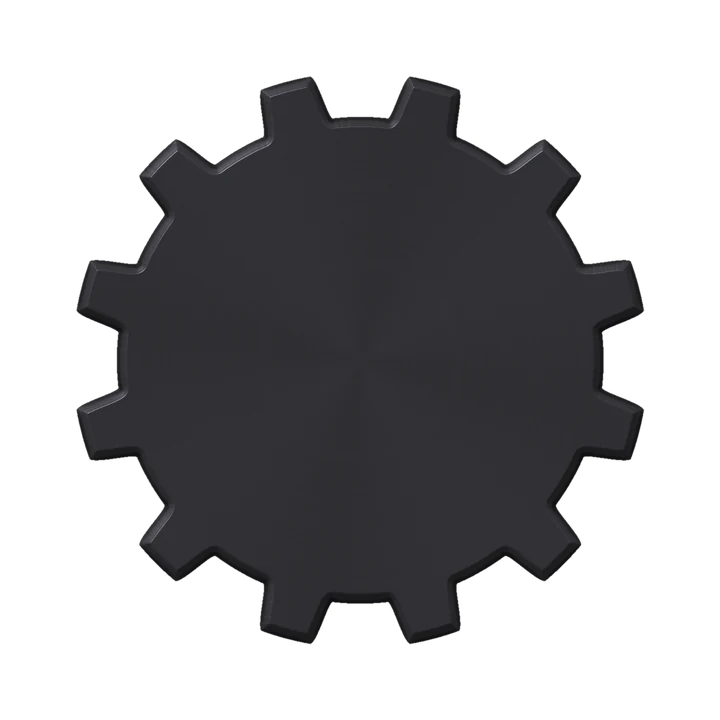
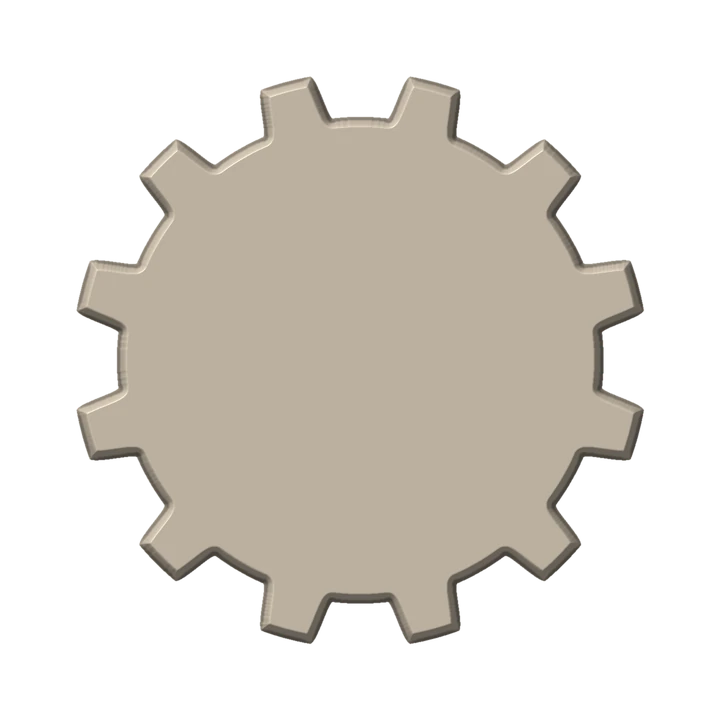
How we work: ivory ceramic gear with ports; red lines leave from the ports
The gear is now option C: ivory ceramic with a fine red ring the
weight of the red lines, a red channel from the ring to the edge, and
a ceramic port (a cable gland with a red sleeve) the lines leave from:
one at the bottom on phones and tablets, one each side on desktop. The
lines settle to solid red. Desktop wires are now drawn from the port
exits into each circle, from their positions; the gear is a little
smaller and the circles a little further out to make room.

Claude-Session: https://claude.ai/code/session_01PbAnrJaT2h2NzokuXUFqJZ

diff --git a/components/HowWeWork.jsx b/components/HowWeWork.jsx
@@ -31,32 +31,41 @@ const W = 1200;
 const H = 600;
 const R = 86; // node radius
 const NODES = [
-  [365, 110], [355, 300], [365, 490], // left, top to bottom
-  [835, 110], [845, 300], [835, 490], // right
+  [350, 110], [346, 300], [350, 490], // left, top to bottom
+  [850, 110], [854, 300], [850, 490], // right
 ];
 const TICK = 40; // the short rule between a node and its list
 const GAP = 14;
 
-// Gear to node: out of the gear's flank, into the node's inner side, with
-// how long the red takes to run each (the curves are about four times the
-// length of the straights).
-const WIRES = [
-  ['M506 226C466 222 505 110 451 110', 1.1],
-  ['M480 300H441', 0.3],
-  ['M506 374C466 378 505 490 451 490', 1.1],
-  ['M694 226C734 222 695 110 749 110', 1.1],
-  ['M720 300H759', 0.3],
-  ['M694 374C734 378 695 490 749 490', 1.1],
-];
-const GEAR_BOX = 350; // the gear images' square canvas, in diagram units
+// The gear images' square canvas, in diagram units. The gear's tip radius
+// is 40% of it, and its ports' exits sit 1.152 tip radii out to each side,
+// three of them 0.03 tip radii apart (tools/gear/build_gear.py).
+const GEAR_BOX = 320;
+const TIP = GEAR_BOX * 0.4;
+
+// From a port exit to each node: out of the port, then round into the node
+// on the line towards the exit. With how long the red takes to run it, at
+// a steady speed.
+const SPEED = 115; // diagram units a second
+const WIRES = NODES.map(([x, y], i) => {
+  const side = i < 3 ? -1 : 1;
+  const ex = 600 + side * 1.152 * TIP;
+  const ey = 300 + Math.sign(y - 300) * 0.03 * TIP;
+  const [ux, uy] = [ex - x, ey - y].map((v, _, [a, b]) => v / Math.hypot(a, b));
+  const [nx, ny] = [x + ux * R, y + uy * R];
+  if (y === 300) return [`M${ex} ${ey}H${nx}`, Math.abs(ex - nx) / SPEED];
+  const d = `M${ex} ${ey}C${ex + side * 22} ${ey} ${nx + ux * 44} ${ny + uy * 44} ${nx} ${ny}`;
+  return [d, Math.hypot(ex - nx, ey - ny) * 1.15 / SPEED];
+});
 
 // The gear: pre-rendered layers (tools/gear/build_gear.py), the words live
-// text over the dial. state is '', 'armed' (waiting: back plate out of step,
-// ring dark) or 'in' (running the sequence).
-const LAYERS = ['shadow', 'back', 'front', 'ring', 'glow'];
-const LAYER_CLASS = { back: 'plateBack', front: 'plateFront', ring: 'ring', glow: 'glow' };
+// text over the dial. layout is where its ports are: 'sides' (desktop) or
+// 'bottom' (phones and tablets). state is '', 'armed' (waiting: back plate
+// out of step, ring dark) or 'in' (running the sequence).
+const LAYERS = ['shadow-*', 'port-*', 'back', 'front-*', 'ring-*', 'glow'];
+const LAYER_CLASS = { back: 'plateBack', 'front-*': 'plateFront', 'ring-*': 'ring', glow: 'glow' };
 
-function Gear({ hub, state = '' }) {
+function Gear({ hub, layout, state = '' }) {
   const cls = state === 'in' ? `${styles.gearArmed} ${styles.gearIn}` : state === 'armed' ? styles.gearArmed : '';
   return (
     <div className={`${styles.gear} ${cls}`}>
@@ -64,7 +73,7 @@ function Gear({ hub, state = '' }) {
         <img
           key={l}
           className={LAYER_CLASS[l] ? styles[LAYER_CLASS[l]] : undefined}
-          src={`/how-we-work/${l}.webp`}
+          src={`/how-we-work/${l.replace('*', layout)}.webp`}
           alt=""
           width="720"
           height="720"
@@ -93,7 +102,7 @@ function Gear({ hub, state = '' }) {
  */
 const ORDER = [0, 3, 1, 4, 2, 5];
 const DOT = 15;
-const DROP = 56; // how far the lines fall while curving out to the sides
+const DROP = 56; // how far the lines fall from the port while curving out
 const GLOW_TIME = 3.6; // s, for the longer of the two lines
 
 function bezierLength(p0, p1, p2, p3) {
@@ -122,13 +131,16 @@ function Spine({ hub, disciplines }) {
       if (!root.offsetParent) return; // hidden on desktop
       const r = root.getBoundingClientRect();
       const g = gearRef.current.getBoundingClientRect();
+      // The bottom port's two exits (tip radius: 40% of the gear canvas).
       const cx = g.left + g.width / 2 - r.left;
-      const gy = g.top - r.top + g.height * 0.88; // just inside the bottom tooth
+      const tip = g.width * 0.4;
+      const gy = g.top - r.top + g.height / 2 + 1.154 * tip;
       const items = [...listRef.current.children];
       const sides = ['left', 'right'].map((side) => {
         const x = side === 'left' ? DOT / 2 : r.width - DOT / 2;
-        const p0 = [cx, gy];
-        const p1 = [cx, gy + DROP * 0.75];
+        const ex = cx + (side === 'left' ? -1 : 1) * 0.02 * tip;
+        const p0 = [ex, gy];
+        const p1 = [ex, gy + DROP * 0.75];
         const p2 = [x, gy + DROP * 0.25];
         const p3 = [x, gy + DROP];
         const curve = bezierLength(p0, p1, p2, p3);
@@ -195,7 +207,7 @@ function Spine({ hub, disciplines }) {
         </svg>
       )}
       <div ref={gearRef} className={styles.stackHub}>
-        <Gear hub={hub} state={phase ? (phase.includes(styles.spineIn) ? 'in' : 'armed') : ''} />
+        <Gear hub={hub} layout="bottom" state={phase ? (phase.includes(styles.spineIn) ? 'in' : 'armed') : ''} />
       </div>
       <ol ref={listRef} className={styles.zig}>
         {ORDER.map((idx, k) => {
@@ -299,7 +311,7 @@ export default function HowWeWork({ work }) {
                 width: pct(GEAR_BOX, W),
               }}
             >
-              <Gear hub={hub} state={state} />
+              <Gear hub={hub} layout="sides" state={state} />
             </div>
 
             {disciplines.map((d, i) => {

diff --git a/components/HowWeWork.module.css b/components/HowWeWork.module.css
@@ -167,7 +167,7 @@
   margin: 0;
   font-family: var(--font-label), 'Jost', ui-sans-serif, system-ui, sans-serif;
   font-weight: 500;
-  font-size: clamp(15px, 1.75cqw, 22px);
+  font-size: clamp(14px, 1.5cqw, 19px);
   line-height: 1.12;
   letter-spacing: 0.07em;
   text-transform: uppercase;
@@ -212,12 +212,12 @@
   stroke-width: 1;
 }
 
-/* The red over the wires: faint when settled (and without the animation);
-   run out from the gear when the animation plays. */
+/* The red over the wires: solid when settled (and without the animation),
+   the same weight as the gear's ring; run out from the ports, glowing, when
+   the animation plays. */
 .wires .wireGlow {
   stroke: var(--red);
   stroke-width: 1.8;
-  opacity: 0.4;
 }
 
 .hub {
@@ -258,7 +258,7 @@
   margin: 0;
   padding: 0;
   transform: translateY(-50%);
-  font-size: clamp(13px, 1.26cqw, 15.5px);
+  font-size: clamp(12px, 1.26cqw, 15.5px);
   line-height: 1.85;
   color: var(--soft);
   white-space: nowrap;
@@ -277,7 +277,6 @@
 /* ---------------------------------------------------------------- wire up */
 
 .armed .wires .wireGlow {
-  opacity: 1;
   stroke-dasharray: 1 1;
   stroke-dashoffset: 1;
   filter: drop-shadow(0 0 3px rgba(255, 75, 43, 0.8));
@@ -309,7 +308,7 @@
 }
 
 @keyframes glow-settle {
-  to { opacity: 0.4; }
+  to { filter: drop-shadow(0 0 0 rgba(255, 75, 43, 0)); }
 }
 
 /* ---------------------------------------------------------------- below 1024 */
@@ -359,12 +358,11 @@
     stroke-width: 1;
   }
 
-  /* The red over the lines: shown faint when settled (and without the
-     animation); drawn down from the gear when the animation runs. */
+  /* The red over the lines: solid when settled (and without the
+     animation); drawn down from the port when the animation runs. */
   .spineGlow {
     stroke: var(--red);
     stroke-width: 1.8;
-    opacity: 0.4;
   }
 
   /* The canvas leaves room round the gear for its shadow and glow; pull it
@@ -469,7 +467,6 @@
   }
 
   .spineArmed .spineGlow {
-    opacity: 1;
     stroke-dasharray: calc(var(--len) * 1px) calc(var(--len) * 1px);
     stroke-dashoffset: calc(var(--len) * 1px);
     filter: drop-shadow(0 0 3px rgba(255, 75, 43, 0.8));
